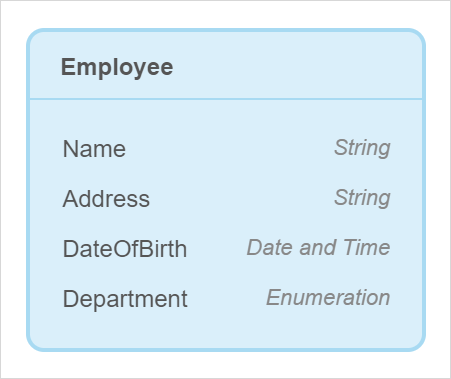
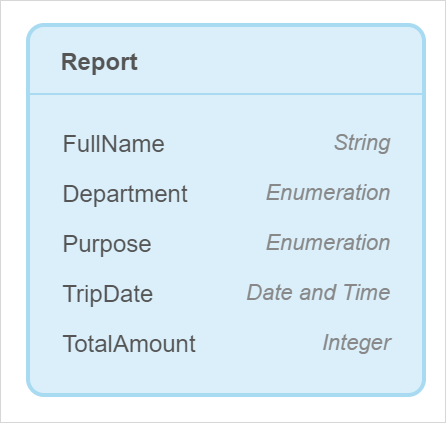
Rewrite how to upload images

diff --git a/content/studio-how-to/pages-how-to-upload-images.md b/content/studio-how-to/pages-how-to-upload-images.md
@@ -1,29 +1,31 @@
 ---
-title: "Upload Images"
+title: "Enable End-Users to Attach Images"
 category: "Pages"
-description: "Describes how to upload images in Mendix Studio."
+description: "Describes how to configure image uploader in Mendix Studio."
 menu_order: 30
-tags: ["studio", "pages", "image", "image uploader"]
+tags: ["studio", "pages", "image", "image uploader", "attachment", "attach image"]
 ---
 
 ## 1 Introduction 
 
-This how-to explains how you can configure image uploading to a Mendix Studio app. 
+This how-to explains how you can configure image uploading in your app and enable your end-users to attach images. 
 
 **This how-to will teach you how to do the following:**
 
-* Create image entities
-* Add an image uploader to a form
+* Create image and file entities
+* Create a page with a form that allows your end-users to attach images
 
 The how-to describes the following use case: 
 
-You have a form (a data view) where new employees add their information and upload their profile picture:
+You have a **New Report** page with a form (a data view) where employees submit a trip report for  reimbursement. They fill in their name, department, purpose and date of their trip, and total amount to be reimbursed:
 
-![](attachments/pages-how-to-upload-images/form-example.png)
+<img src="attachments/pages-how-to-upload-images/form-example.png" style="zoom:60%;" />
 
 Your domain model looks the following way:
 
 <img src="attachments/pages-how-to-upload-images/domain-model.png" style="zoom:50%;" />
+
+When creating a reimbursement report, employees need to upload receipts – screenshots or scanned images of what they paid for.  
 
 ## 2 Prerequisites
 
@@ -32,57 +34,80 @@ Before starting this how-to, make sure you have completed the following prerequi
 * Familiarize yourself with page terms and how to perform basic functions on pages. For more information, see [Pages](/studio/pages). 
 * Familiarize yourself with the domain model terms and learn how to perform basic functions. For more information, see [Domain Model](/studio/domain-models).
 
-## 3 Adding Image Entity
+## 3 Creating Image and File Entities
 
-First of all, to be able to upload or/and download pictures and files you need to add a special type of entity to your domain model: an image entity. Do the following:
+First of all, to be able to attach and upload images you need to add a special type of entity to your domain model: an image entity. Do the following:
 
-1. Open your domain model and select the **Employee** entity.
+1. Open your domain model and open the **Toolbox** tab.
 
-2. Click **New attribute**:
+2. Select the **Image Entity** and drag and drop it to your domain model.
 
-    <img src="attachments/pages-how-to-upload-images/new-attribute.png" style="zoom:50%;" />
+3. In the **Create New Image Entity** dialog box, set **Name** to *Image* and click **Create**.
 
-3. In the **Create New Attribute** dialog box, click **Add image or file** in the bottom right corner:
+    <img src="attachments/pages-how-to-upload-images/create-new-image-entity.png" style="zoom:50%;" />
 
-    <img src="attachments/pages-how-to-upload-images/add-image-or-file.png" style="zoom:50%;" />
+4. Now you need to create an association from the **Image** entity to the **Report** entity. Do one of the following:
 
-4. Select **Image Entity** in the **Image and Files** dialog box.
+    1. Hover over the **Image** entity, click the dot icon, and drag the dot to the **Report** entity:
 
-5. Name the entity *ProfilePicture* and click **Create**. 
+		<img src="attachments/pages-how-to-upload-images/association-method1.png" style="zoom:50%;" />
 
-The image entity is automatically created together with a one-to-one association (meaning that one employee can have only one profile picture) to the **Employee** entity:
+    2. Select the **Image** entity, click the arrow icon, and select **Report** as a second entity for the association:
 
-<img src="attachments/pages-how-to-upload-images/entity-and-association.png" style="zoom:50%;" />
+		<img src="attachments/pages-how-to-upload-images/association-method2.png" style="zoom:50%;" />
 
- 
+Good job! You have created image and file entities and associations from them to the **Report** entity:
+
+<img src="attachments/pages-how-to-upload-images/domain-model-configured.png" style="zoom:50%;" />
 
 ## 4 Adding an Image Uploader to a Form
 
-An **Image Uploader** is a widget that allows your end-users upload images. However, it can only function inside a data container (a list view or data view) and can only have an image entity as its data source. If you just drag and drop image uploader to your current form, it will not work, because your current data view has the **Employee** entity as its data source, which is not an image type of entity. 
+An **Image Uploader** is a widget that allows your end-users to attach and upload images. However, it can only function inside a data container (a list view or data view) and can only have an image entity as its data source. If you just drag and drop the image uploader to your report form, it will not work, because your current data view has the **Report** entity as its data source, which is not an image entity:
 
-To solve this issue, you first need to drag and drop another data view *inside* your current one, this way you will be able to access the **ProfilePicture** entity over **Employee_ProfilePicture** association. Then you can place an image uploader inside the second data view and it will work properly with your image entity. 
+<img src="attachments/pages-how-to-upload-images/form-example.png" style="zoom:50%;" /> 
+
+To solve this, you can add a button and a pop-up page that will enable end-users to upload images. This page will be connected to your current report form over association (*Image_Report*) and will upload images to a specific report. 
 
 Follow the steps below:
 
-1.  Open the page with the employee detail form. 
+1. Open the **New Report** page where employees submit a new report. 
 
-2. Find a data view in the **Toolbox** and drag and drop it *inside* the current data view. 
+2. Open the **Toolbox** and search for **Create Object** button.
 
-    <img src="attachments/pages-how-to-upload-images/toolbox-data-view.png" style="zoom:60%;" />
+3. Drag and drop the button to the data view footer next to **Save** and **Cancel** buttons:
 
-3. In the properties dialog box that appears, click **Entity**. 
+    ![](attachments/pages-how-to-upload-images/new-button.png)
 
-4. In the **Select Entity** dialog box, select **Employee_ProfilePicture/ProfilePicture**. This means that the data view will access the **ProfilePicture** entity over **Employee_ProfilePicture** association. 
+4. Double-click the button and rename it from *New* to *Attach Images*.
 
-    <img src="attachments/pages-how-to-upload-images/select-entity.png" style="zoom:50%;" />
+5. Open the button properties, select the **Entity** property and set the **Image** entity over **Image_Report** association (*Image_Report/Image*) for it:
 
-5. Find the **Image Uploader** in the **Toolbox** and drag and drop it inside your newly configured data view.
+    <img src="attachments/pages-how-to-upload-images/image-report-association.png" style="zoom:50%;" />
 
-If you open the **Image Uploader** properties, you can see that the **ProfilePicture** was automatically set as its **Context Entity**:
+6. In the button properties, click **Page**.
 
-<img src="attachments/pages-how-to-upload-images/context-entity.png" style="zoom:60%;" />
+7. In the **Select Page** dialog box, click **New Page**.
 
-Good job! Now you have the employee form where employees can enter their details and can upload their profile picture. 
+8. In the **Create new page** dialog box, do the following:
 
-<img src="attachments/pages-how-to-upload-images/form-with-image-uploader.png" style="zoom:67%;" />
+    1. Set the **Title** to *Attach Images*.
 
+    2. Set the **Layout** to *PopupLayout*.
+
+    3. The **Pre-fill page contents based on the InspectionReport entity** option is on, so the page template (Forms) is selected automatically for you. Choose **Form Columns** and click **Create**.
+
+        <img src="attachments/pages-how-to-upload-images/create-new-page-images.png" style="zoom:50%;" />
+
+9. A new pop-up page with a preconfigured form (a data view) is created:
+
+   <img src="attachments/pages-how-to-upload-images/attach-images-page.png" style="zoom:60%;" />
+
+   As you only need to upload images, delete the **Dynamic image** widget, **Name** and **Size** text boxes from the data view. 
+
+   9. Open the **Toolbox**, search for an **Image Uploader**, drag and drop it inside the data view. 
+
+   You have created a pop-up page that will allow employees to attach images to their reimbursement reports. [Preview your app](/studio/publishing-app) to test how the image uploading works:  
+
+   ![](attachments/pages-how-to-upload-images/attach-images.gif) 
+
+You can also configure a button to attach files instead of images. For more information on files, see [Images & Files](/studio/page-editor-widgets-images-and-files).
